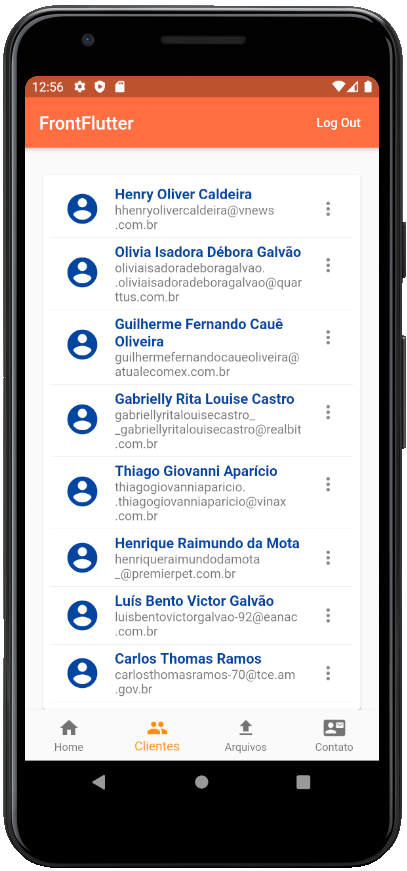
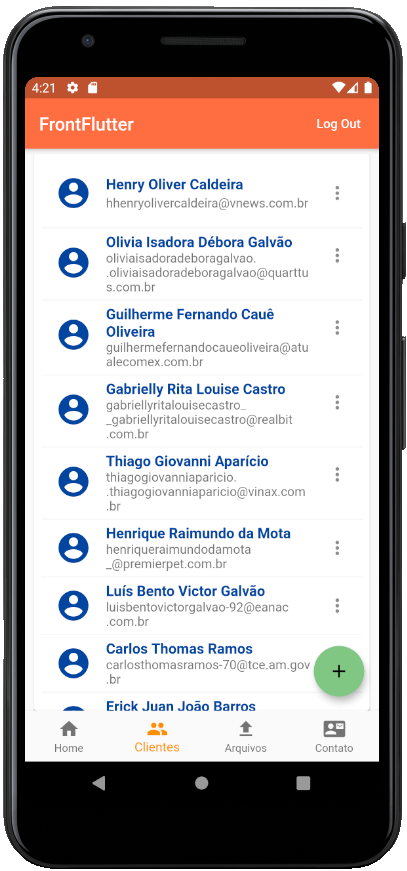
add cliente

diff --git a/lib/clientes.dart b/lib/clientes.dart
@@ -36,66 +36,150 @@ class ClientesPage extends StatelessWidget {
   @override
   Widget build(BuildContext context) {
     clientes = buscaClientes();
-    return Column(children: <Widget>[
-      FutureBuilder<List<Cliente>>(
-        future: clientes,
-        builder: (context, snapshot) {
-          List<Cliente> users = snapshot.data ?? [];
-          if (snapshot.hasData) {
-            return Expanded(
-              child: Card(
-                margin: EdgeInsets.fromLTRB(20, 30, 20, 0),
-                child: Scrollbar(
-                  child: ListView.builder(
-                    padding: const EdgeInsets.all(8),
-                    itemBuilder: (context, index) {
-                      Cliente cli = users[index];
-                      return Column(
-                        children: <Widget>[
-                          ListTile(
-                            leading: Icon(
-                              Icons.account_circle,
-                              color: Colors.blue[900],
-                              size: 40.0,
-                            ),
-                            title: Text(
-                              cli.nome,
-                              style: TextStyle(
-                                  color: Colors.blue[900],
-                                  fontWeight: FontWeight.bold),
-                            ),
-                            subtitle: Text(cli.email),
-                            trailing: Icon(Icons.more_vert),
-                            onTap: () {
-                              Navigator.push(
-                                context,
-                                MaterialPageRoute(
-                                  builder: (context) =>
-                                      DetailScreen(cliente: cli),
-                                ),
-                              );
-                            },
-                          ),
-                          Divider(
-                            height: 5.0,
-                          ),
-                        ],
-                      );
-                    },
-                    itemCount: users.length,
-                  ),
-                ),
-              ),
-            );
-          } else if (snapshot.hasError) {
-            return Text("${snapshot.error}");
-          }
 
-          // By default, show a loading spinner.
-          return CircularProgressIndicator();
+    return Scaffold(
+      floatingActionButton: FloatingActionButton(
+        onPressed: () {
+          Navigator.push(
+            context,
+            MaterialPageRoute(
+              builder: (context) => AddScreen(),
+            ),
+          );
         },
-      )
-    ]);
+        child: Icon(Icons.add),
+        backgroundColor: Colors.green[300],
+      ),
+      body: Container(
+        margin: EdgeInsets.all(0.0),
+        child: Column(
+          children: <Widget>[
+            FutureBuilder<List<Cliente>>(
+              future: clientes,
+              builder: (context, snapshot) {
+                List<Cliente> users = snapshot.data ?? [];
+                if (snapshot.hasData) {
+                  return Expanded(
+                    child: Card(
+                      margin: EdgeInsets.fromLTRB(10, 5, 10, 0),
+                      child: Scrollbar(
+                        child: ListView.builder(
+                          padding: const EdgeInsets.all(8),
+                          itemBuilder: (context, index) {
+                            Cliente cli = users[index];
+                            return Column(
+                              children: <Widget>[
+                                ListTile(
+                                  leading: Icon(
+                                    Icons.account_circle,
+                                    color: Colors.blue[900],
+                                    size: 40.0,
+                                  ),
+                                  title: Text(
+                                    cli.nome,
+                                    style: TextStyle(
+                                        color: Colors.blue[900],
+                                        fontWeight: FontWeight.bold),
+                                  ),
+                                  subtitle: Text(cli.email),
+                                  trailing: Icon(Icons.more_vert),
+                                  onTap: () {
+                                    Navigator.push(
+                                      context,
+                                      MaterialPageRoute(
+                                        builder: (context) =>
+                                            DetailScreen(cliente: cli),
+                                      ),
+                                    );
+                                  },
+                                ),
+                                Divider(
+                                  height: 5.0,
+                                ),
+                              ],
+                            );
+                          },
+                          itemCount: users.length,
+                        ),
+                      ),
+                    ),
+                  );
+                } else if (snapshot.hasError) {
+                  return Text("${snapshot.error}");
+                }
+
+                // By default, show a loading spinner.
+                return CircularProgressIndicator();
+              },
+            ),
+          ],
+        ),
+      ),
+    );
+  }
+}
+
+class AddScreen extends StatelessWidget {
+  AddScreen({Key key}) : super(key: key);
+
+  final TextEditingController _controladorNome = TextEditingController();
+  final TextEditingController _controladorCidade = TextEditingController();
+  final TextEditingController _controladorEmail = TextEditingController();
+  final TextEditingController _controladorSexo = TextEditingController();
+
+  @override
+  Widget build(BuildContext context) {
+    return Scaffold(
+      appBar: AppBar(
+        title: const Text('Cadastrar Cliente'),
+      ),
+      body: Padding(
+        padding: const EdgeInsets.all(16.0),
+        child: Column(
+          children: <Widget>[
+            TextField(
+              controller: _controladorNome,
+              decoration: InputDecoration(labelText: 'Nome'),
+            ),
+            Padding(
+              padding: const EdgeInsets.only(top: 16.0),
+              child: TextField(
+                controller: _controladorEmail,
+                decoration: InputDecoration(labelText: 'E-mail'),
+              ),
+            ),
+            Padding(
+              padding: const EdgeInsets.only(top: 16.0),
+              child: TextField(
+                controller: _controladorCidade,
+                decoration: InputDecoration(labelText: 'Cidade'),
+              ),
+            ),
+            Padding(
+              padding: const EdgeInsets.only(top: 16.0),
+              child: TextField(
+                controller: _controladorSexo,
+                decoration: InputDecoration(labelText: 'Sexo'),
+              ),
+            ),
+          ],
+        ),
+      ),
+      floatingActionButton: FloatingActionButton.extended(
+        onPressed: () {
+          final String nome = _controladorNome.text;
+          final String email = _controladorEmail.text;
+          final String valor = _controladorCidade.text;
+          final String sexo = _controladorSexo.text;
+          // todo
+          // final Cliente ClienteNovo = Cliente(nome, quantidade, valor);
+          // print(produtoNovo);
+        },
+        label: Text('Salvar'),
+        icon: Icon(Icons.check),
+        backgroundColor: Colors.green[300],
+      ),
+    );
   }
 }
 
@@ -116,41 +200,41 @@ class DetailScreen extends StatelessWidget {
       body: Padding(
         padding: EdgeInsets.all(16.0),
         child: Column(
-        children: [
-          ListTile(
-            title: Text(cliente.nome,
-                style: TextStyle(fontWeight: FontWeight.w500)),
-            subtitle: Text('ID: '+cliente.id.toString()),
-            leading: Icon(
-              Icons.account_circle,
-              color: Colors.blue[900],
+          children: [
+            ListTile(
+              title: Text(cliente.nome,
+                  style: TextStyle(fontWeight: FontWeight.w500)),
+              subtitle: Text('ID: ' + cliente.id.toString()),
+              leading: Icon(
+                Icons.account_circle,
+                color: Colors.blue[900],
+              ),
             ),
-          ),
-          Divider(),
-          ListTile(
-            title: Text(cliente.cidade,
-                style: TextStyle(fontWeight: FontWeight.w500)),
-            leading: Icon(
-              Icons.location_city,
-              color: Colors.blue[900],
+            Divider(),
+            ListTile(
+              title: Text(cliente.cidade,
+                  style: TextStyle(fontWeight: FontWeight.w500)),
+              leading: Icon(
+                Icons.location_city,
+                color: Colors.blue[900],
+              ),
             ),
-          ),
-          ListTile(
-            title: Text(cliente.email),
-            leading: Icon(
-              Icons.contact_mail,
-              color: Colors.blue[900],
+            ListTile(
+              title: Text(cliente.email),
+              leading: Icon(
+                Icons.contact_mail,
+                color: Colors.blue[900],
+              ),
             ),
-          ),
-          ListTile(
-            title: Text(cliente.sexo),
-            leading: Icon(
-              Icons.info,
-              color: Colors.blue[900],
+            ListTile(
+              title: Text(cliente.sexo),
+              leading: Icon(
+                Icons.info,
+                color: Colors.blue[900],
+              ),
             ),
-          ),
-        ],
-      ),
+          ],
+        ),
       ),
     );
   }

diff --git a/README.md b/README.md
@@ -12,8 +12,11 @@ Ela possui uma interfase para login e gerenciamento de uma base de dados exemplo
 #### Tela de login utilizando autenticação com backend
 ![Login](/img/login.png)![home](/img/home.png)
 
-#### CRUD de uma base de dados de clientes
+#### Consulta de clientes com detalhemento
 ![clientes](/img/crud.png)![detalhes](/img/detalhes.png)
+
+### adcionar e remover clientes
+![add](/img/add.png)
 
 #### Tela de contato
 ![contato](/img/contato.png)
